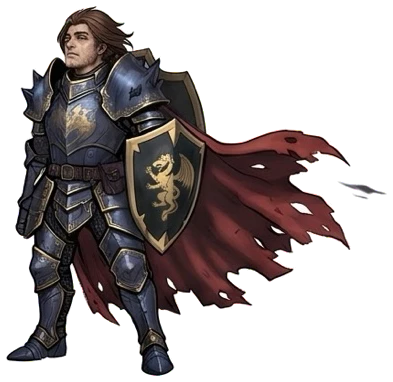
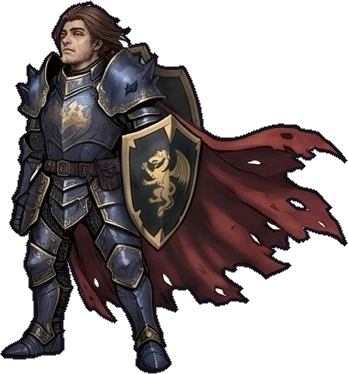
Dragonbound 3.2.1: Aldric détouré proprement (contour sombre, plus de liseré blanc), repos sans alternance saccadée
Claude-Session: https://claude.ai/code/session_01RVFF6aQ8Rrf5QFv7wAnNwn

diff --git a/prototype/dragonbound/sw.js b/prototype/dragonbound/sw.js
@@ -1,5 +1,5 @@
 // Offline support: the app shell is cached on first visit, fonts as they load.
-const CACHE = 'dragonbound-v43';
+const CACHE = 'dragonbound-v44';
 const SHELL = ['./', 'index.html', 'manifest.webmanifest', 'apple-touch-icon.png', 'icon-192.png', 'icon-512.png', 'img/a0amulette.webp', 'img/a0armure.webp', 'img/a0bottes.webp', 'img/a0casque.webp', 'img/a1amulette.webp', 'img/a1armure.webp', 'img/a1bottes.webp', 'img/a1casque.webp', 'img/a2amulette.webp', 'img/a2armure.webp', 'img/a2bottes.webp', 'img/a2casque.webp', 'img/a3amulette.webp', 'img/a3armure.webp', 'img/a3bottes.webp', 'img/a3casque.webp', 'img/a4amulette.webp', 'img/a4armure.webp', 'img/a4bottes.webp', 'img/a4casque.webp', 'img/a5amulette.webp', 'img/a5armure.webp', 'img/a5bottes.webp', 'img/a5casque.webp', 'img/a8amulette.webp', 'img/a8armure.webp', 'img/a8bottes.webp', 'img/a8casque.webp', 'img/a9amulette.webp', 'img/a9armure.webp', 'img/a9bottes.webp', 'img/a9casque.webp', 'img/aLegAmu.webp', 'img/aLegArm.webp', 'img/aLegHelm.webp', 'img/archer-face.webp', 'img/archer.webp', 'img/armor.webp', 'img/banshee.webp', 'img/bat.webp', 'img/bear.webp', 'img/bg0_0.webp', 'img/bg0_1.webp', 'img/bg0_2.webp', 'img/bg0_3.webp', 'img/bg0_4.webp', 'img/bg1_0.webp', 'img/bg1_1.webp', 'img/bg1_2.webp', 'img/bg1_3.webp', 'img/bg1_4.webp', 'img/bg2_0.webp', 'img/bg2_1.webp', 'img/bg2_2.webp', 'img/bg2_3.webp', 'img/bg2_4.webp', 'img/bg3_0.webp', 'img/bg3_1.webp', 'img/bg3_2.webp', 'img/bg3_3.webp', 'img/bg3_4.webp', 'img/bg4_0.webp', 'img/bg4_1.webp', 'img/bg4_2.webp', 'img/bg4_3.webp', 'img/bg4_4.webp', 'img/bg5_0.webp', 'img/bg5_1.webp', 'img/bg5_2.webp', 'img/bg5_3.webp', 'img/bg5_4.webp', 'img/bg6_0.webp', 'img/bg6_1.webp', 'img/bg6_2.webp', 'img/bg6_3.webp', 'img/bg6_4.webp', 'img/bg7_0.webp', 'img/bg7_1.webp', 'img/bg7_2.webp', 'img/bg7_3.webp', 'img/bg7_4.webp', 'img/bg8_0.webp', 'img/bg8_1.webp', 'img/bg8_2.webp', 'img/bg8_3.webp', 'img/bg8_4.webp', 'img/bg9_0.webp', 'img/bg9_1.webp', 'img/bg9_2.webp', 'img/bg9_3.webp', 'img/bg9_4.webp', 'img/bl_barrier.webp', 'img/bl_dome.webp', 'img/bl_riposte.webp', 'img/bl_roll.webp', 'img/bl_shield.webp', 'img/bossBone.webp', 'img/bossDragon.webp', 'img/bossHag.webp', 'img/bossLich.webp', 'img/bossQueen.webp', 'img/bossRat.webp', 'img/bossVamp.webp', 'img/bossVoid.webp', 'img/bossVort.webp', 'img/bossWitch.webp', 'img/chestR1.webp', 'img/chestR2.webp', 'img/chestR3.webp', 'img/chestR4.webp', 'img/croco.webp', 'img/demon.webp', 'img/dknight.webp', 'img/dmage.webp', 'img/drake.webp', 'img/frog.webp', 'img/garg.webp', 'img/ghoul.webp', 'img/goblin.webp', 'img/golem.webp', 'img/harpy.webp', 'img/hero-face.webp', 'img/hero.webp', 'img/hero2-face.webp', 'img/hero2.webp', 'img/hero2_atk.webp', 'img/hero2_def.webp', 'img/hero2_hit.webp', 'img/hero2_idle2.webp', 'img/hero2_ko.webp', 'img/hero2_prep.webp', 'img/hero2_spe.webp', 'img/hero2_win.webp', 'img/ic_arrow.webp', 'img/ic_dagger.webp', 'img/ic_mace.webp', 'img/ic_smoke.webp', 'img/ic_staff.webp', 'img/ic_sword.webp', 'img/imp.webp', 'img/intro-poster.jpg', 'img/knight.webp', 'img/lich.webp', 'img/logo.webp', 'img/m_bone.webp', 'img/m_dscale.webp', 'img/m_ember.webp', 'img/m_frost.webp', 'img/m_ooze.webp', 'img/m_sap.webp', 'img/m_shard.webp', 'img/m_sludge.webp', 'img/m_t0.webp', 'img/m_t1.webp', 'img/m_t2.webp', 'img/m_t3.webp', 'img/m_t4.webp', 'img/m_t5.webp', 'img/m_t8.webp', 'img/m_t9.webp', 'img/mage-face.webp', 'img/mage.webp', 'img/necro.webp', 'img/pRat.webp', 'img/pVort.webp', 'img/paladin-face.webp', 'img/paladin.webp', 'img/prat.webp', 'img/rat.webp', 'img/rogue-face.webp', 'img/rogue.webp', 'img/salam.webp', 'img/scorp.webp', 'img/shroom.webp', 'img/skel.webp', 'img/slime.webp', 'img/snake.webp', 'img/spBlades.webp', 'img/spFrost.webp', 'img/spHeal.webp', 'img/spRain.webp', 'img/spRoar.webp', 'img/spShadow.webp', 'img/spShield.webp', 'img/spSmite.webp', 'img/spVenom.webp', 'img/spWhirl.webp', 'img/spider.webp', 'img/spirit.webp', 'img/thief.webp', 'img/tslime.webp', 'img/uiAch.webp', 'img/uiChest1.webp', 'img/uiChest2.webp', 'img/uiChest3.webp', 'img/uiDice.webp', 'img/uiDiceCrit.webp', 'img/uiEnPack.webp', 'img/uiEnSmall.webp', 'img/uiEnergy.webp', 'img/uiGem.webp', 'img/uiGems.webp', 'img/uiGold.webp', 'img/uiMats.webp', 'img/uiPity.webp', 'img/uiPotion.webp', 'img/uiQuest.webp', 'img/uiScroll.webp', 'img/uiSell.webp', 'img/vampire.webp', 'img/vbat.webp', 'img/vine.webp', 'img/wAxe.webp', 'img/wCrossbow.webp', 'img/wDaggers.webp', 'img/wElvenbow.webp', 'img/wFangs.webp', 'img/wFlail.webp', 'img/wHammer.webp', 'img/wLegA.webp', 'img/wLegG.webp', 'img/wLegM.webp', 'img/wLegP.webp', 'img/wLegR.webp', 'img/wScepter.webp', 'img/wShadow.webp', 'img/wShortbow.webp', 'img/wStaff.webp', 'img/wSword.webp', 'img/wTome.webp', 'img/warlock.webp', 'img/werewolf.webp', 'img/wisp.webp', 'img/wm0.webp', 'img/wm1.webp', 'img/wm2.webp', 'img/wm3.webp', 'img/wm4.webp', 'img/wm5.webp', 'img/wm6.webp', 'img/wm7.webp', 'img/wm8.webp', 'img/wm9.webp', 'img/wolf.webp', 'img/worldmap.webp', 'img/worldmap2.webp', 'img/yeti.webp', 'img/zombie.webp', 'audio/boss1.mp3', 'audio/dark1.mp3', 'audio/fight1.mp3', 'audio/intro.mp4', 'audio/map1.mp3', 'audio/map2.mp3', 'audio/s_clang.mp3', 'audio/s_impact.mp3', 'audio/s_ring.mp3', 'audio/s_sword.mp3'];
 
 self.addEventListener('install', e => {

diff --git a/prototype/dragonbound/index.html b/prototype/dragonbound/index.html
@@ -2372,7 +2372,7 @@ body { margin: 0; -webkit-tap-highlight-color: transparent; }
       if (F.hero.lunge && F.hero._dl !== F.hero.lunge) { F.hero._dl = F.hero.lunge; puffs(hx, hy - 4, ['rgba(210,190,160,.35)', 'rgba(180,160,130,.3)'], 4, 0.55); }
       const ant = pulse(F.hero.wind || 0, 160), hsx = 1 + ant * 0.05 - lp * 0.05 + hh * 0.06 - breathe * 0.5, hsy = 1 - ant * 0.05 + lp * 0.05 - hh * 0.06;
       const lunging = F.hero.lunge && F.hero.lunge >= (F.hero.wind || 0) && now - F.hero.lunge < 520;
-      const pose = F.hero.ko ? 'ko' : F.hero.win ? 'win' : (F.hero.hit && now - F.hero.hit < 480) ? 'hit' : F.defending ? 'def' : (cast || (F.hero.spe && now - F.hero.spe < 760)) ? 'spe' : lunging ? 'atk' : (F.hero.wind && now - F.hero.wind < 320) ? 'prep' : (!reduce && Math.sin(t / 650) > 0.35) ? 'idle2' : 'idle';
+      const pose = F.hero.ko ? 'ko' : F.hero.win ? 'win' : (F.hero.hit && now - F.hero.hit < 480) ? 'hit' : F.defending ? 'def' : (cast || (F.hero.spe && now - F.hero.spe < 760)) ? 'spe' : lunging ? 'atk' : (F.hero.wind && now - F.hero.wind < 320) ? 'prep' : 'idle';
       if (lp > 0.25 && !reduce) for (let g = 1; g <= 2; g++) { c.save(); c.globalAlpha = 0.16 / g; heroDraw(c, pose, hx + hl * (1 - g * 0.3), hy - hj * (1 - g * 0.3), hH, 0, hsx, hsy); c.restore(); }
       if (F.shadowDodge) c.globalAlpha = 0.5 + 0.1 * Math.sin(now / 200);
       heroDraw(c, pose, hx + hl, hy - hj, hH, hh * 0.7, hsx, hsy);
@@ -2696,7 +2696,7 @@ body { margin: 0; -webkit-tap-highlight-color: transparent; }
 
   // ---------- Start ----------
   // ---------- Version (Bêta 1.0 = first full build with 8 worlds, Forge and difficulty modes) ----------
-  const VERSION = 'Version 3.2';
+  const VERSION = 'Version 3.2.1';
   document.querySelectorAll('#v-shop').forEach(v => v.insertAdjacentHTML('beforeend', `<div class="ver">StepQuest Dragonbound · ${VERSION}</div>`));
   // ---------- Intro story: painted slides (dedicated intro art if present, else world backgrounds) ----------
   const INTRO = [
